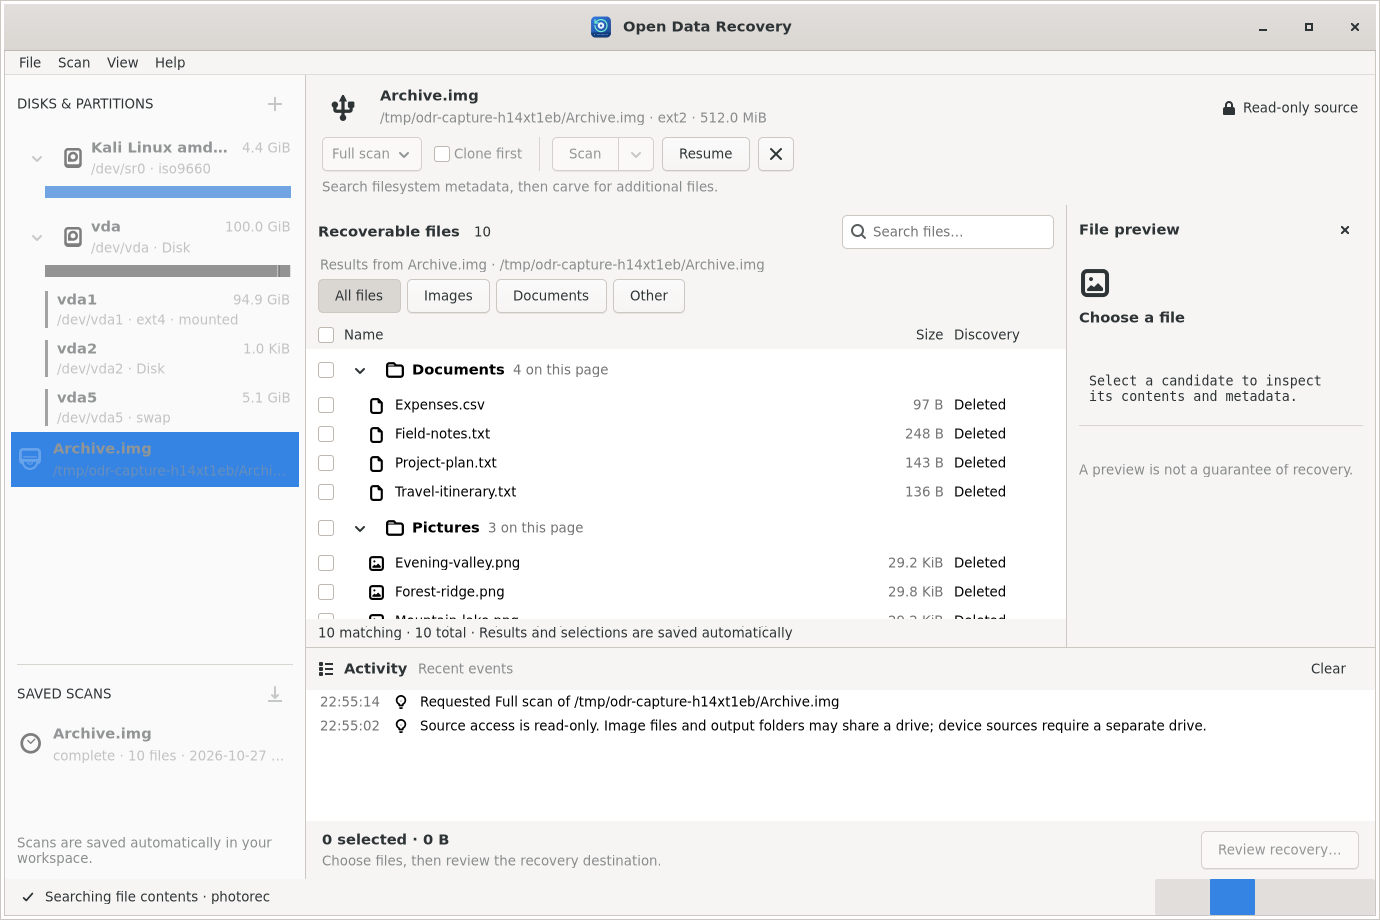
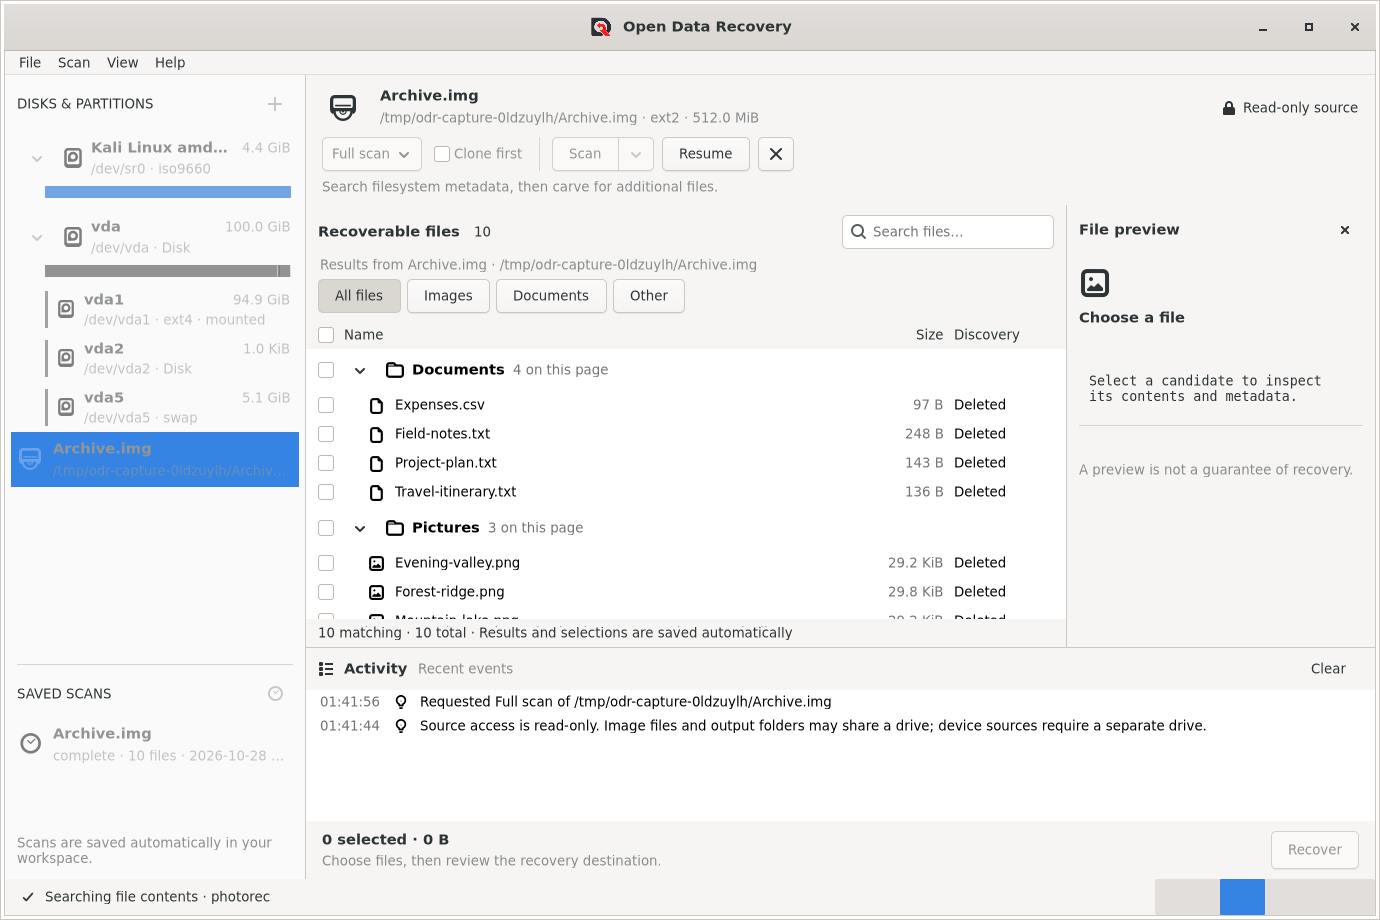
Refine source indicators and adopt Recall branding

diff --git a/src/live.rs b/src/live.rs
@@ -117,6 +117,14 @@ fn date(seconds: i64) -> String {
         .map(|s| s.to_string())
         .unwrap_or_else(|_| "Unknown".into())
 }
+fn source_icon(source: &SourceDescriptor) -> &'static str {
+    match source.kind {
+        SourceType::Block => "drive-harddisk-symbolic",
+        SourceType::Image => "drive-optical-symbolic",
+        SourceType::Folder => "folder-symbolic",
+    }
+}
+
 fn file_icon(path: &str) -> &'static str {
     match Path::new(path)
         .extension()
@@ -255,11 +263,12 @@ impl Live {
         let weak = Rc::downgrade(self);
         self.widget::<gtk::ListBox>("sources")
             .connect_row_selected(move |_, row| {
-                if let (Some(ui), Some(row)) = (weak.upgrade(), row) {
+                if let Some(ui) = weak.upgrade() {
                     if ui.rendering.get() || ui.busy() {
                         return;
                     }
-                    let selected = ui.source_rows.borrow().get(row.index() as usize).copied();
+                    let selected = row
+                        .and_then(|row| ui.source_rows.borrow().get(row.index() as usize).copied());
                     ui.selected.set(selected);
                     ui.render_sources();
                     ui.controls();
@@ -376,6 +385,10 @@ impl Live {
         let busy = self.busy();
         let sources = self.sources.borrow();
         let source = self.selected.get().and_then(|id| sources.get(id));
+        self.widget::<gtk::Box>("source_protection")
+            .set_visible(source.is_some());
+        self.widget::<gtk::Image>("source_icon")
+            .set_visible(source.is_some());
         for name in ["start", "custom-scan"] {
             self.enable(name, !busy && source.is_some());
         }
@@ -406,6 +419,8 @@ impl Live {
         self.widget::<gtk::CheckButton>("select_all")
             .set_sensitive(!busy && !self.page.borrow().files.is_empty());
         if let Some(source) = source {
+            self.widget::<gtk::Image>("source_icon")
+                .set_icon_name(Some(source_icon(source)));
             let different = self
                 .view_source
                 .borrow()
@@ -577,11 +592,7 @@ impl Live {
                 label.set_text(&model::size(source.target_size()));
             }
             if let Some(icon) = b.object::<gtk::Image>("icon") {
-                icon.set_icon_name(Some(if source.kind == SourceType::Image {
-                    "drive-optical-symbolic"
-                } else {
-                    "drive-harddisk-symbolic"
-                }));
+                icon.set_icon_name(Some(source_icon(source)));
             }
             let row: gtk::ListBoxRow = obj(&b, "row");
             if disk {
@@ -2003,8 +2014,6 @@ pub fn activate(app: &gtk::Application, smoke: bool) {
         .set_visible(false);
     ui.widget::<gtk::Button>("add_source")
         .set_tooltip_text(Some("Add an image, device or mounted folder"));
-    ui.widget::<gtk::Button>("save_snapshot")
-        .set_tooltip_text(Some("Browse saved scans"));
     ui.connect(app);
     ui.render_files();
     ui.refresh();
@@ -2060,6 +2069,13 @@ pub fn activate(app: &gtk::Application, smoke: bool) {
                     0 if ui.directory.borrow().as_ref() == Some(&session)
                         && !ui.page.borrow().files.is_empty() =>
                     {
+                        assert!(ui.widget::<gtk::Box>("source_protection").is_visible());
+                        assert_eq!(
+                            ui.widget::<gtk::Image>("source_icon")
+                                .icon_name()
+                                .as_deref(),
+                            Some("drive-optical-symbolic")
+                        );
                         if other_source.is_some() && !checked_reopen {
                             // A pending old-page refresh must neither cancel an
                             // explicit open nor overwrite its new result view.
@@ -2278,6 +2294,18 @@ pub fn activate(app: &gtk::Application, smoke: bool) {
         let weak = Rc::downgrade(&ui);
         glib::timeout_add_local_once(Duration::from_millis(700), move || {
             if let Some(ui) = weak.upgrade() {
+                let selected = ui.selected.get();
+                ui.widget::<gtk::ListBox>("sources").unselect_all();
+                assert!(ui.selected.get().is_none());
+                assert!(!ui.widget::<gtk::Box>("source_protection").is_visible());
+                assert!(!ui.widget::<gtk::Image>("source_icon").is_visible());
+                ui.selected.set(selected);
+                ui.render_sources();
+                ui.controls();
+                assert_eq!(
+                    ui.widget::<gtk::Box>("source_protection").is_visible(),
+                    selected.is_some()
+                );
                 ui.custom_scan();
                 let b = ui.dialog.borrow().clone().unwrap();
                 assert!(scan_options(&b).is_ok());
@@ -2289,7 +2317,7 @@ pub fn activate(app: &gtk::Application, smoke: bool) {
                         .menu_model()
                         .is_some()
                 );
-                ui.saved_scans();
+                ui.widget::<gtk::Button>("open_saved_scans").emit_clicked();
                 assert!(
                     ui.dialog
                         .borrow()

diff --git a/src/ui.rs b/src/ui.rs
@@ -397,6 +397,7 @@ impl Ui {
             for child in children {
                 let source = &state.sources[child];
                 let builder = gtk::Builder::from_string(PARTITION_ROW);
+                object::<gtk::Image>(&builder, "icon").set_icon_name(Some(source.icon));
                 object::<gtk::Label>(&builder, "name").set_text(&source.name);
                 object::<gtk::Label>(&builder, "capacity").set_text(source.capacity);
                 object::<gtk::Label>(&builder, "detail").set_text(&if source.kind
@@ -541,6 +542,9 @@ impl Ui {
         );
         self.widget::<gtk::Image>("source_icon")
             .set_icon_name(Some(source.icon));
+        self.widget::<gtk::Image>("source_icon").set_visible(true);
+        self.widget::<gtk::Box>("source_protection")
+            .set_visible(true);
         self.label(
             "source_state",
             if source.mounted {

diff --git a/src/appearance.rs b/src/appearance.rs
@@ -1,9 +1,9 @@
 use gtk::{gdk, prelude::*};
 
-/// Use the same scalable artwork in source builds and installed packages.
+/// Use the same artwork in source builds and installed packages.
 pub fn set_brand_icon(builder: &gtk::Builder) {
     let bytes =
-        gtk::glib::Bytes::from_static(include_bytes!("../packaging/org.opendatarecovery.App.svg"));
+        gtk::glib::Bytes::from_static(include_bytes!("../packaging/org.opendatarecovery.App.png"));
     let icon = gtk::gio::BytesIcon::new(&bytes);
     builder
         .object::<gtk::Image>("brand_icon")

diff --git a/docs/wiki/README.md b/docs/wiki/README.md
@@ -19,7 +19,7 @@ This wiki describes the current implementation. Start here for the workflow, the
 4. **Prepare and scan.** E01 conversion, optional cloning and a custom byte-range copy happen before scanning when applicable. Engines run sequentially and save findings and any extracted contents in the workspace.
 5. **Finish consolidation, if enabled.** This option is off by default. It compares contents and publishes the final grouped list after scanning finishes.
 6. **Inspect and select results.** Search, preview and select files or groups. A listed candidate is not a guarantee that its original contents are intact.
-7. **Review recovery.** Choose a destination outside the saved-scan directory and set the output options. The same device/image storage rules apply; workspace and destination may share a drive. See [storage examples](storage.md).
+7. **Recover.** Open the review dialog, choose a destination outside the saved-scan directory and set the output options. The same device/image storage rules apply; workspace and destination may share a drive. See [storage examples](storage.md).
 8. **Recover and check the files.** Recovery writes the selected copies and records outcomes in the saved scan. Keep the workspace for future use, or remove that saved-scan directory when its contents and history are no longer needed.
 
 Selecting or adding another source does not close the displayed scan. Its results, selection, search and preview remain available. **Results from…** identifies those results, while **Next scan: …** identifies a different source selected for a new scan. Recovery always uses the displayed scan. Start a new scan or explicitly open another saved scan to replace it.

diff --git a/README.md b/README.md
@@ -1,5 +1,5 @@
 <p align="center">
-  <img src="packaging/org.opendatarecovery.App.svg" width="128" height="128" alt="Open Data Recovery icon: a blue storage drive with a teal recovery arrow">
+  <img src="packaging/org.opendatarecovery.App.png" width="128" height="128" alt="Open Data Recovery Recall logo: a charcoal D with a red recovery arrow">
 </p>
 
 <h1 align="center">Open Data Recovery</h1>
@@ -84,7 +84,7 @@ Optional `open-data-recovery-engines` packages provide pinned RecuperaBit, Digle
 1. Select a disk or partition, or use **File → Add source** for an image or mounted folder.
 2. Choose **Quick**, **Deep** or **Full**. Click **Scan** for the defaults, or its dropdown → **Custom…** for workspace and engine options.
 3. Review the results, filter or preview candidates, and select the files to restore.
-4. Open **Review recovery**, choose the destination and recovery options, then recover the selected files.
+4. Click **Recover**, choose the destination and recovery options in the review dialog, then recover the selected files.
 5. Use **Scan → Saved Scan** to reopen, compare, scan again or delete saved attempts. For missing partitions, start with **Scan → Find lost partitions…**.
 
 Device and mounted-folder sources require workspace and destination storage on a different physical drive. Regular image files may share their hosting drive, provided neither output folder contains the image or any of its segments. The recovery destination must also be outside the saved scan folder.

diff --git a/docs/wiki/recovery.md b/docs/wiki/recovery.md
@@ -21,7 +21,7 @@ This means that recovering already-extracted files is chiefly a controlled copy 
 1. Open the finished scan or use **Menu → Scan → Saved Scan** to reopen one.
 2. Search, filter and preview results. Lists are paged; the page's select-all and folder controls apply to the displayed page. Selections persist across pages, filters and application restarts, so a hidden selected file is still selected.
 3. For consolidated results, inspect **N findings…** to see alternate paths and engine records. Selecting a group selects one recovery copy by default.
-4. Open **Review recovery**, choose a destination, review the selection count and storage amount, and adjust the options below.
+4. Click **Recover** to open the review dialog, choose a destination, review the selection count and storage amount, and adjust the options below.
 5. Start recovery once destination validation succeeds. Review the saved, failed and skipped counts and inspect the resulting files.
 
 Changing or adding a source in the sidebar leaves the current scan and its selections open. The result area identifies their source with **Results from…**; **Next scan: …** marks a different selected target. Review recovery also identifies the open scan's source. Selecting another source does not redirect recovery to it.
